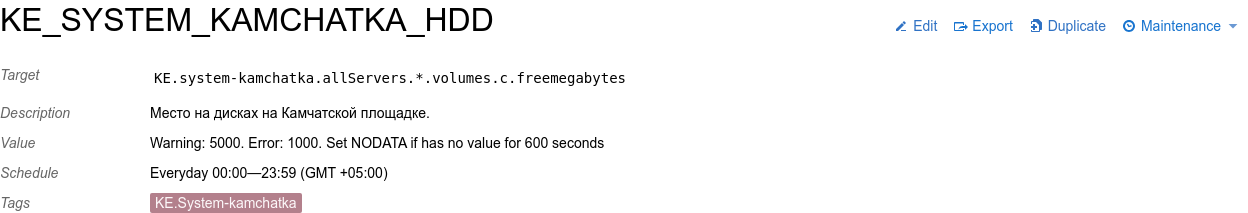
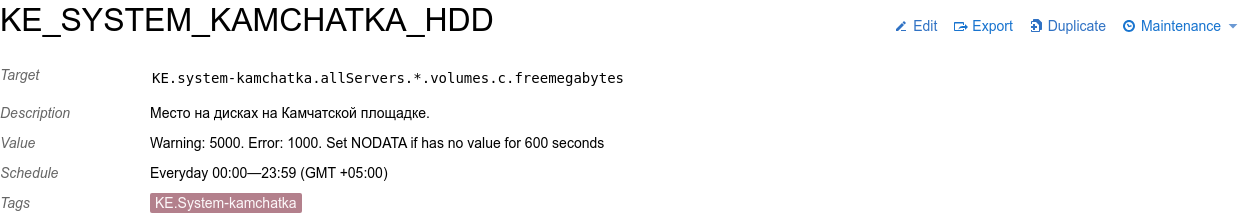
editor margin

Changed region(s): [[0.125, 0.338, 0.5, 0.3944]]

diff --git a/src/Components/TriggerInfo/TriggerInfo.tsx b/src/Components/TriggerInfo/TriggerInfo.tsx
@@ -189,7 +189,7 @@ export default function TriggerInfo({
             </header>
             <dl className={cn("list")}>
                 <dt>Target {triggerSourceDescription(triggerSource)}</dt>
-                <dd>
+                <dd className={cn("codeEditor")}>
                     <Gapped vertical gap={10}>
                         {targets.map((target, i) => (
                             <CodeEditor

diff --git a/src/Components/TriggerInfo/TriggerInfo.less b/src/Components/TriggerInfo/TriggerInfo.less
@@ -47,6 +47,9 @@
         &.description {
             overflow: hidden;
         }
+        &.codeEditor {
+            margin-left: -2px;
+        }
     }
 }
 
